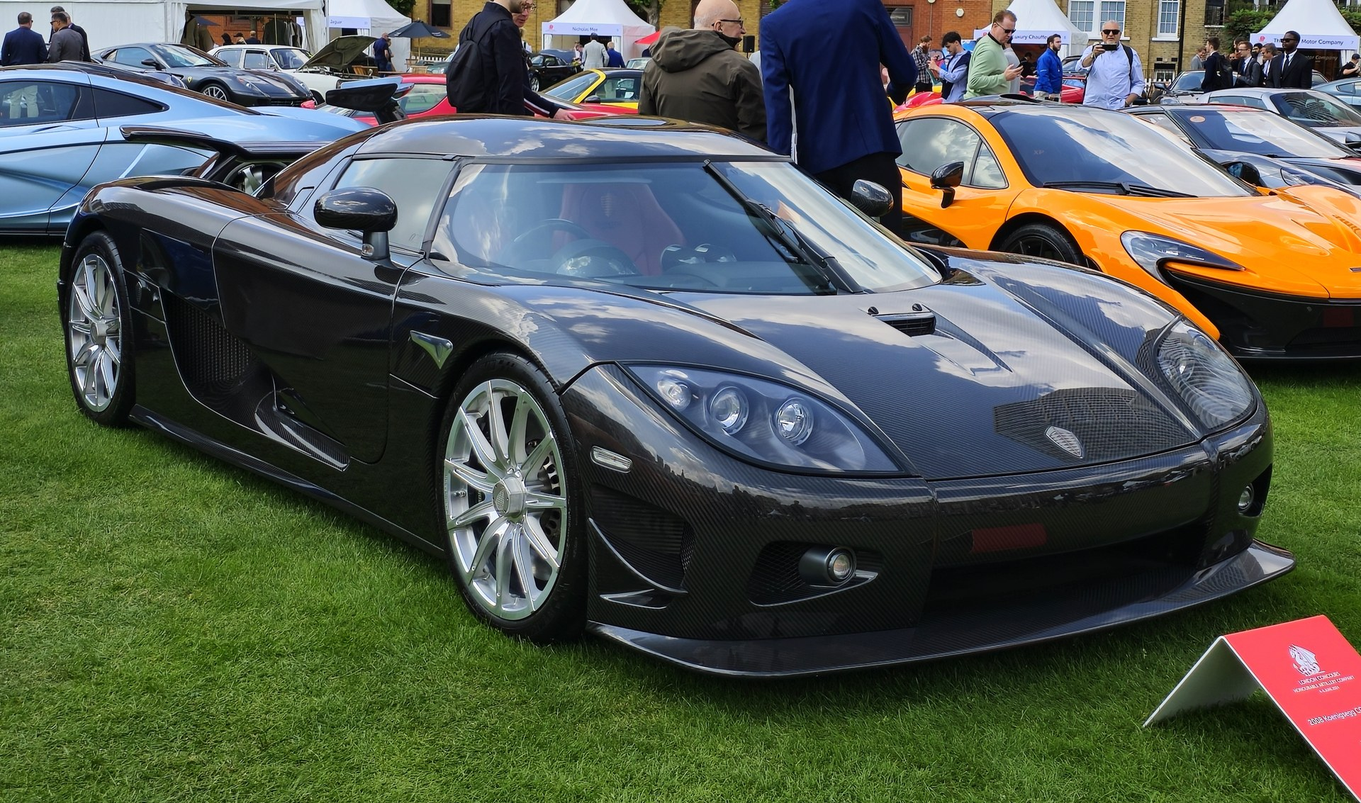
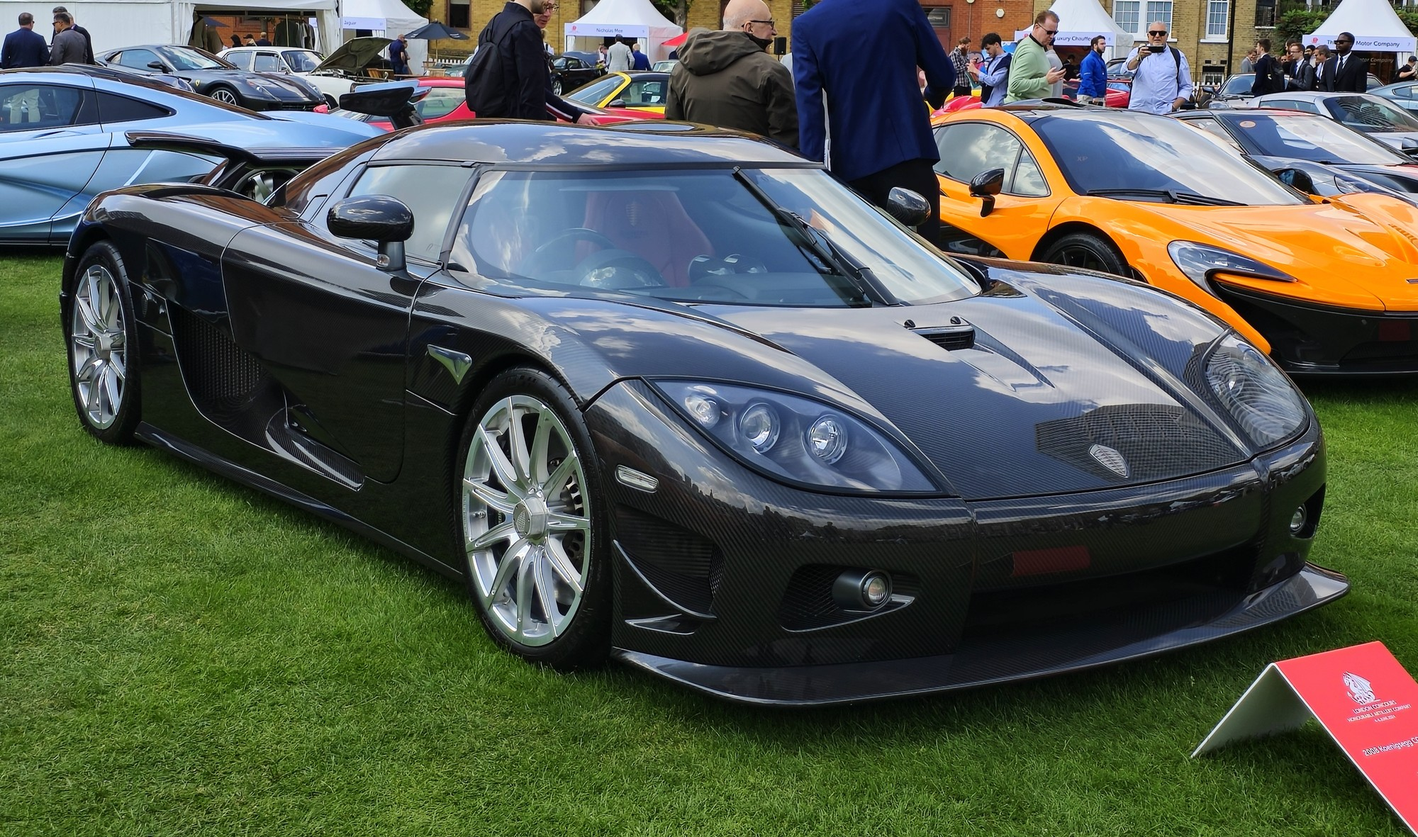
Replace card photos with live 3D FM4-style thumbnails; update detail photos
Gallery cards (MakeSelectionPage):
- Replace static img tags with CarThumbnail — a self-contained R3F Canvas
  that renders each car in the same FM4 3-point studio rig (warm key, cool
  fill, cool rim spot), dark MeshReflectorMaterial floor, studio HDRI, and
  ContactShadows. Camera angle is identical for every car → pixel-perfect
  visual consistency, no photo sourcing needed.
- Shimmer placeholder animates while model loads on first visit
- Lower shadow map (512px) and reflector resolution (256px) keep thumbnails
  lightweight without visible quality loss at card size

Detail view photos (IndividualCarPage spec panel):
- Replace low-quality car-show snapshots with higher-res Wikimedia press
  photos (2000px, JPEG 90%) — cleaner compositions, no crowds, better light

diff --git a/frontend/src/components/CarGallery/CarThumbnail.tsx b/frontend/src/components/CarGallery/CarThumbnail.tsx
@@ -1,0 +1,143 @@
+/**
+ * CarThumbnail — self-contained mini Three.js canvas for gallery cards.
+ *
+ * Renders each car in the same FM4-style studio rig as the main viewer:
+ *   • 3-point warm/cool lighting
+ *   • Studio HDRI background (consistent across all cars)
+ *   • Dark MeshReflectorMaterial floor
+ *   • Fixed "showroom" camera angle (same for every car → visual consistency)
+ *   • No OrbitControls (static render)
+ *
+ * Models are preloaded at module level in CarModel.tsx, so the canvas
+ * paints on the first frame with no hitching.
+ */
+
+import React, { Suspense, useEffect } from 'react';
+import { Canvas, useThree } from '@react-three/fiber';
+import {
+  ContactShadows,
+  Environment,
+  MeshReflectorMaterial,
+} from '@react-three/drei';
+import { Box } from '@mui/material';
+import { CarModel } from './CarModel';
+import { type CarConfig } from './cars.config';
+
+// ─── Fixed FM4 showroom camera ────────────────────────────────────────────────
+// Slightly elevated front-3/4 — same for all cars so cards look uniform.
+const CAM_POS:    [number, number, number] = [4.5, 1.15, 7.0];
+const CAM_TARGET: [number, number, number] = [0,   0.65, 0  ];
+
+function ThumbCameraInit() {
+  const { camera } = useThree();
+  useEffect(() => {
+    camera.position.set(...CAM_POS);
+    camera.lookAt(...CAM_TARGET);
+    camera.updateProjectionMatrix();
+  }, [camera]);
+  return null;
+}
+
+// ─── The actual scene (runs inside Canvas) ────────────────────────────────────
+function ThumbScene({ config }: { config: CarConfig }) {
+  return (
+    <>
+      <ThumbCameraInit />
+
+      {/* FM4 3-point rig — reduced shadow-map size for thumbnail perf */}
+      <directionalLight
+        position={[-4, 8, 5]}
+        intensity={1.8}
+        color="#FFE0A0"
+        castShadow
+        shadow-mapSize={[512, 512]}
+        shadow-camera-far={30}
+        shadow-camera-left={-8}
+        shadow-camera-right={8}
+        shadow-camera-top={8}
+        shadow-camera-bottom={-8}
+      />
+      <directionalLight position={[5, 2, 5]} intensity={0.6} color="#A0C0FF" />
+      <spotLight position={[5, 7, -5]} intensity={2.5} color="#80B4FF" angle={0.25} penumbra={0.3} />
+      <ambientLight intensity={0.12} />
+
+      {/* Studio HDRI — same for every thumbnail for consistency */}
+      <Environment
+        preset="studio"
+        background
+        backgroundBlurriness={0.04}
+        backgroundIntensity={0.75}
+      />
+
+      {/* Dark reflective floor — lower resolution for thumbnails */}
+      <mesh rotation={[-Math.PI / 2, 0, 0]} position={[0, 0, 0]} receiveShadow>
+        <planeGeometry args={[40, 40]} />
+        <MeshReflectorMaterial
+          blur={[200, 80]}
+          resolution={256}
+          mixStrength={0.4}
+          mixBlur={6}
+          mirror={0.3}
+          color="#111111"
+          metalness={0.6}
+          roughness={1}
+        />
+      </mesh>
+
+      {/* Thin shadow receiver just above the reflector */}
+      <mesh rotation={[-Math.PI / 2, 0, 0]} position={[0, 0.001, 0]} receiveShadow>
+        <planeGeometry args={[10, 10]} />
+        <shadowMaterial transparent opacity={0.35} />
+      </mesh>
+
+      <CarModel config={config} />
+
+      <ContactShadows
+        position={[0, 0.001, 0]}
+        opacity={0.55}
+        scale={10}
+        blur={2.5}
+        far={4}
+        color="#000000"
+      />
+    </>
+  );
+}
+
+// ─── Shimmer placeholder shown while the canvas / model loads ─────────────────
+function ThumbnailShimmer() {
+  return (
+    <Box
+      sx={{
+        width:      '100%',
+        height:     '100%',
+        background: 'linear-gradient(135deg, #111 0%, #1a1a1a 50%, #111 100%)',
+        backgroundSize: '200% 200%',
+        animation:  'shimmer 1.6s ease-in-out infinite',
+        '@keyframes shimmer': {
+          '0%':   { backgroundPosition: '0% 50%'   },
+          '50%':  { backgroundPosition: '100% 50%' },
+          '100%': { backgroundPosition: '0% 50%'   },
+        },
+      }}
+    />
+  );
+}
+
+// ─── Public component ─────────────────────────────────────────────────────────
+export function CarThumbnail({ config }: { config: CarConfig }) {
+  return (
+    <Box sx={{ position: 'absolute', inset: 0, overflow: 'hidden' }}>
+      <Suspense fallback={<ThumbnailShimmer />}>
+        <Canvas
+          shadows
+          camera={{ fov: 46 }}
+          gl={{ antialias: true, alpha: false }}
+          style={{ width: '100%', height: '100%', display: 'block' }}
+        >
+          <ThumbScene config={config} />
+        </Canvas>
+      </Suspense>
+    </Box>
+  );
+}

diff --git a/frontend/src/pages/MakeSelectionPage.tsx b/frontend/src/pages/MakeSelectionPage.tsx
@@ -3,6 +3,7 @@ import { Box, Typography, IconButton } from '@mui/material';
 import { ArrowBack } from '@mui/icons-material';
 import { useNavigate, useParams } from 'react-router-dom';
 import { getCarsByMake, ALL_MAKES } from '../components/CarGallery/cars.config';
+import { CarThumbnail } from '../components/CarGallery/CarThumbnail';
 import DropdownNav from '../components/common/DropdownNav';
 
 export default function MakeSelectionPage() {
@@ -68,48 +69,34 @@ export default function MakeSelectionPage() {
               cursor:         'pointer',
               position:       'relative',
               aspectRatio:    '16 / 9',
-              background:     'rgba(255,255,255,0.03)',
+              background:     '#111',
               border:         '0.5px solid rgba(255,255,255,0.08)',
               display:        'flex',
               flexDirection:  'column',
               justifyContent: 'flex-end',
               padding:        '1.25rem',
               overflow:       'hidden',
-              transition:     'border-color 0.2s, background 0.2s',
+              transition:     'border-color 0.3s',
               '&:hover': {
-                borderColor: 'rgba(255,255,255,0.25)',
-                background:  'rgba(255,255,255,0.06)',
+                borderColor: 'rgba(255,255,255,0.3)',
               },
-              '&:hover .car-label': { color: 'rgba(255,255,255,0.92)' },
+              '&:hover .car-label': { color: '#fff' },
             }}
           >
-            {/* Car photo */}
-            <Box
-              component="img"
-              src={car.imageUrl}
-              alt={car.displayName}
-              sx={{
-                position:   'absolute',
-                inset:      0,
-                width:      '100%',
-                height:     '100%',
-                objectFit:  'cover',
-                objectPosition: 'center',
-                transition: 'transform 0.4s ease',
-                '.MuiBox-root:hover &': { transform: 'scale(1.03)' },
-              }}
-            />
+            {/* Live 3D thumbnail — FM4-style studio render, consistent across all cars */}
+            <CarThumbnail config={car} />
 
-            {/* Gradient overlay so text is readable over photo */}
+            {/* Gradient overlay — darker at bottom so label stays readable */}
             <Box sx={{
               position:   'absolute',
               inset:      0,
-              background: 'linear-gradient(to top, rgba(0,0,0,0.75) 0%, rgba(0,0,0,0.1) 50%, transparent 100%)',
+              background: 'linear-gradient(to top, rgba(0,0,0,0.82) 0%, rgba(0,0,0,0.15) 45%, transparent 100%)',
               pointerEvents: 'none',
+              zIndex:     1,
             }} />
 
             {/* Card label */}
-            <Box sx={{ position: 'relative', zIndex: 1 }}>
+            <Box sx={{ position: 'relative', zIndex: 2 }}>
               <Typography className="car-label" sx={{
                 fontSize:      '18px',
                 fontWeight:    300,
